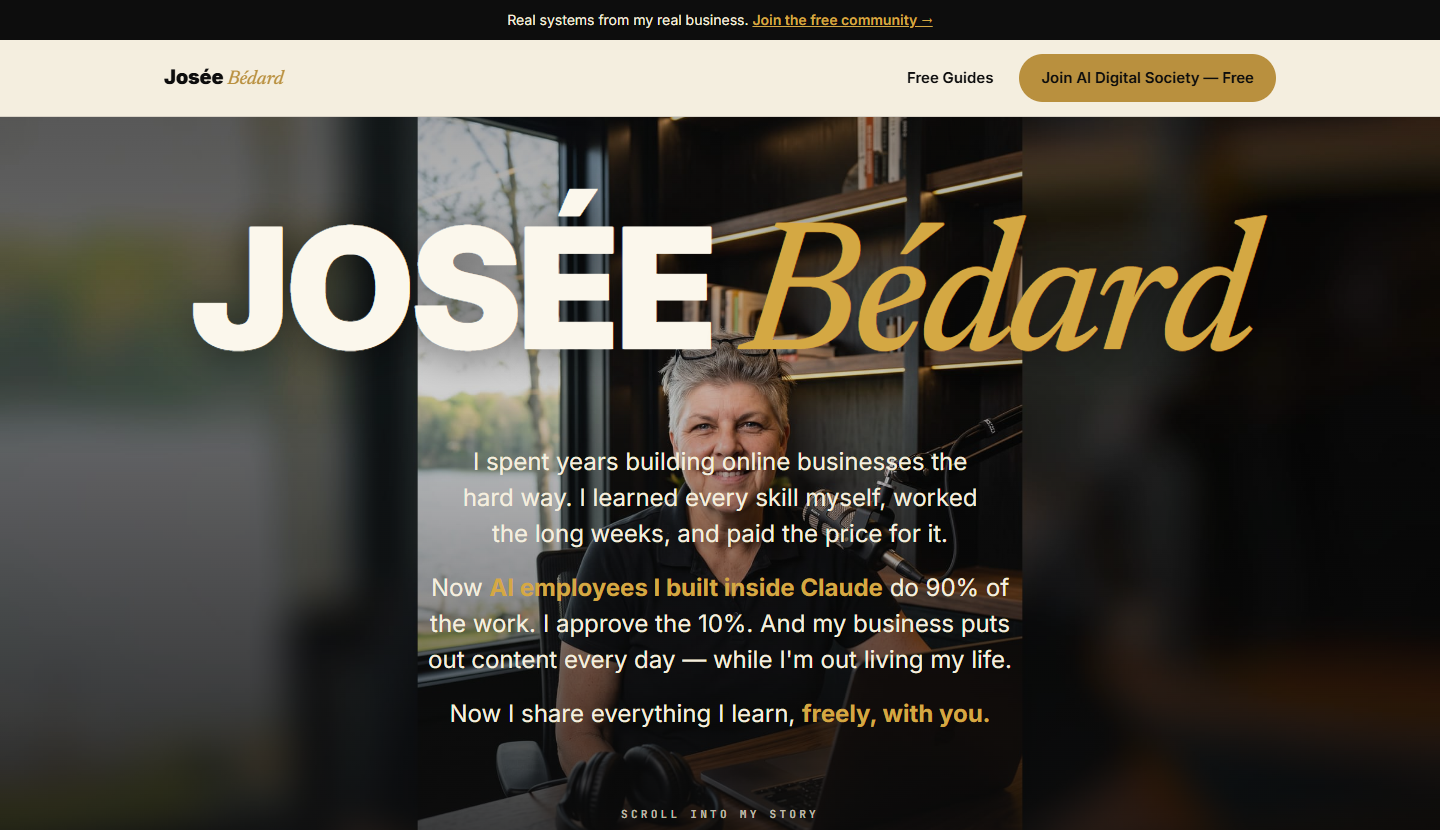
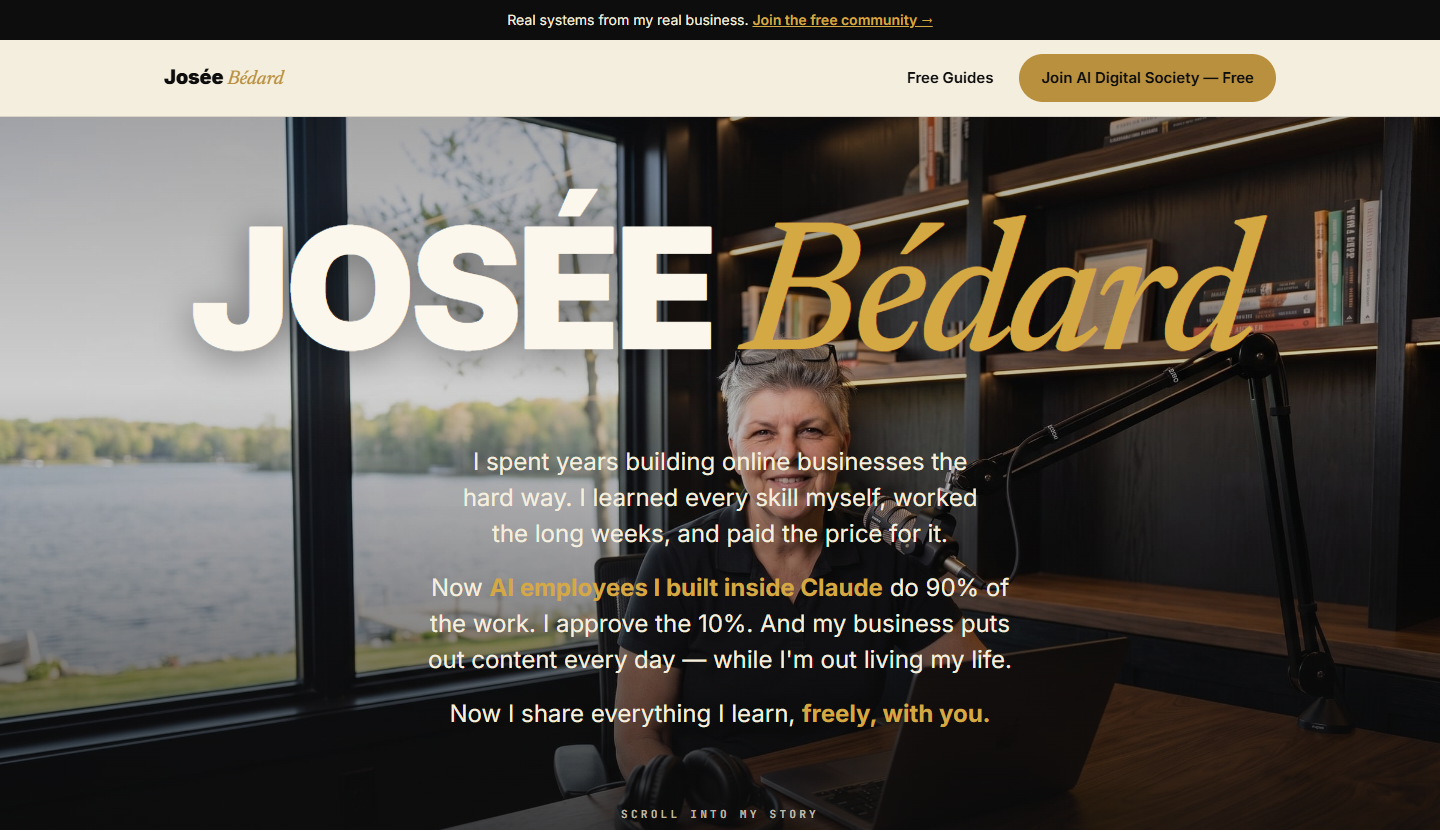
New widescreen lake-studio hero photo

diff --git a/guides/index.html b/guides/index.html
@@ -12,7 +12,7 @@
 <link rel="preconnect" href="https://fonts.googleapis.com">
 <link rel="preconnect" href="https://fonts.gstatic.com" crossorigin>
 <link href="https://fonts.googleapis.com/css2?family=Inter:wght@400;500;600;700;900&family=Newsreader:ital,opsz,wght@1,18,400;1,18,500;0,18,500&family=JetBrains+Mono:wght@600&display=swap" rel="stylesheet">
-<link rel="stylesheet" href="../css/site.css?v=4">
+<link rel="stylesheet" href="../css/site.css?v=5">
 <style>
 .library{background:var(--cream);padding:70px 0 90px;min-height:60vh}
 .library__head{max-width:820px;margin:0 auto 40px;text-align:center;padding:0 24px}

diff --git a/guides/ai-employee-system.html b/guides/ai-employee-system.html
@@ -11,7 +11,7 @@
 <link rel="preconnect" href="https://fonts.googleapis.com">
 <link rel="preconnect" href="https://fonts.gstatic.com" crossorigin>
 <link href="https://fonts.googleapis.com/css2?family=Inter:wght@400;500;600;700;900&family=Newsreader:ital,opsz,wght@1,18,400;1,18,500;0,18,500&family=JetBrains+Mono:wght@600&display=swap" rel="stylesheet">
-<link rel="stylesheet" href="../css/site.css?v=4">
+<link rel="stylesheet" href="../css/site.css?v=5">
 </head>
 <body>
 

diff --git a/guides/brain-file.html b/guides/brain-file.html
@@ -11,7 +11,7 @@
 <link rel="preconnect" href="https://fonts.googleapis.com">
 <link rel="preconnect" href="https://fonts.gstatic.com" crossorigin>
 <link href="https://fonts.googleapis.com/css2?family=Inter:wght@400;500;600;700;900&family=Newsreader:ital,opsz,wght@1,18,400;1,18,500;0,18,500&family=JetBrains+Mono:wght@600&display=swap" rel="stylesheet">
-<link rel="stylesheet" href="../css/site.css?v=4">
+<link rel="stylesheet" href="../css/site.css?v=5">
 </head>
 <body>
 

diff --git a/guides/carousel-system.html b/guides/carousel-system.html
@@ -11,7 +11,7 @@
 <link rel="preconnect" href="https://fonts.googleapis.com">
 <link rel="preconnect" href="https://fonts.gstatic.com" crossorigin>
 <link href="https://fonts.googleapis.com/css2?family=Inter:wght@400;500;600;700;900&family=Newsreader:ital,opsz,wght@1,18,400;1,18,500;0,18,500&family=JetBrains+Mono:wght@600&display=swap" rel="stylesheet">
-<link rel="stylesheet" href="../css/site.css?v=4">
+<link rel="stylesheet" href="../css/site.css?v=5">
 </head>
 <body>
 

diff --git a/index.html b/index.html
@@ -12,7 +12,7 @@
 <link rel="preconnect" href="https://fonts.googleapis.com">
 <link rel="preconnect" href="https://fonts.gstatic.com" crossorigin>
 <link href="https://fonts.googleapis.com/css2?family=Inter:wght@400;500;600;700;900&family=Newsreader:ital,opsz,wght@1,18,400;1,18,500;0,18,500&family=JetBrains+Mono:wght@600&display=swap" rel="stylesheet">
-<link rel="stylesheet" href="css/site.css?v=4">
+<link rel="stylesheet" href="css/site.css?v=5">
 </head>
 <body>
 

diff --git a/css/site.css b/css/site.css
@@ -89,8 +89,8 @@ a{color:inherit}
 }
 .hero__bg{
   position:absolute;inset:0;
-  background-image:url("../img/hero-office-wide.jpg");
-  background-size:cover;background-position:center 25%;
+  background-image:url("../img/hero-studio.jpg");
+  background-size:cover;background-position:center 30%;
   opacity:.85;
 }
 .hero__shade{
